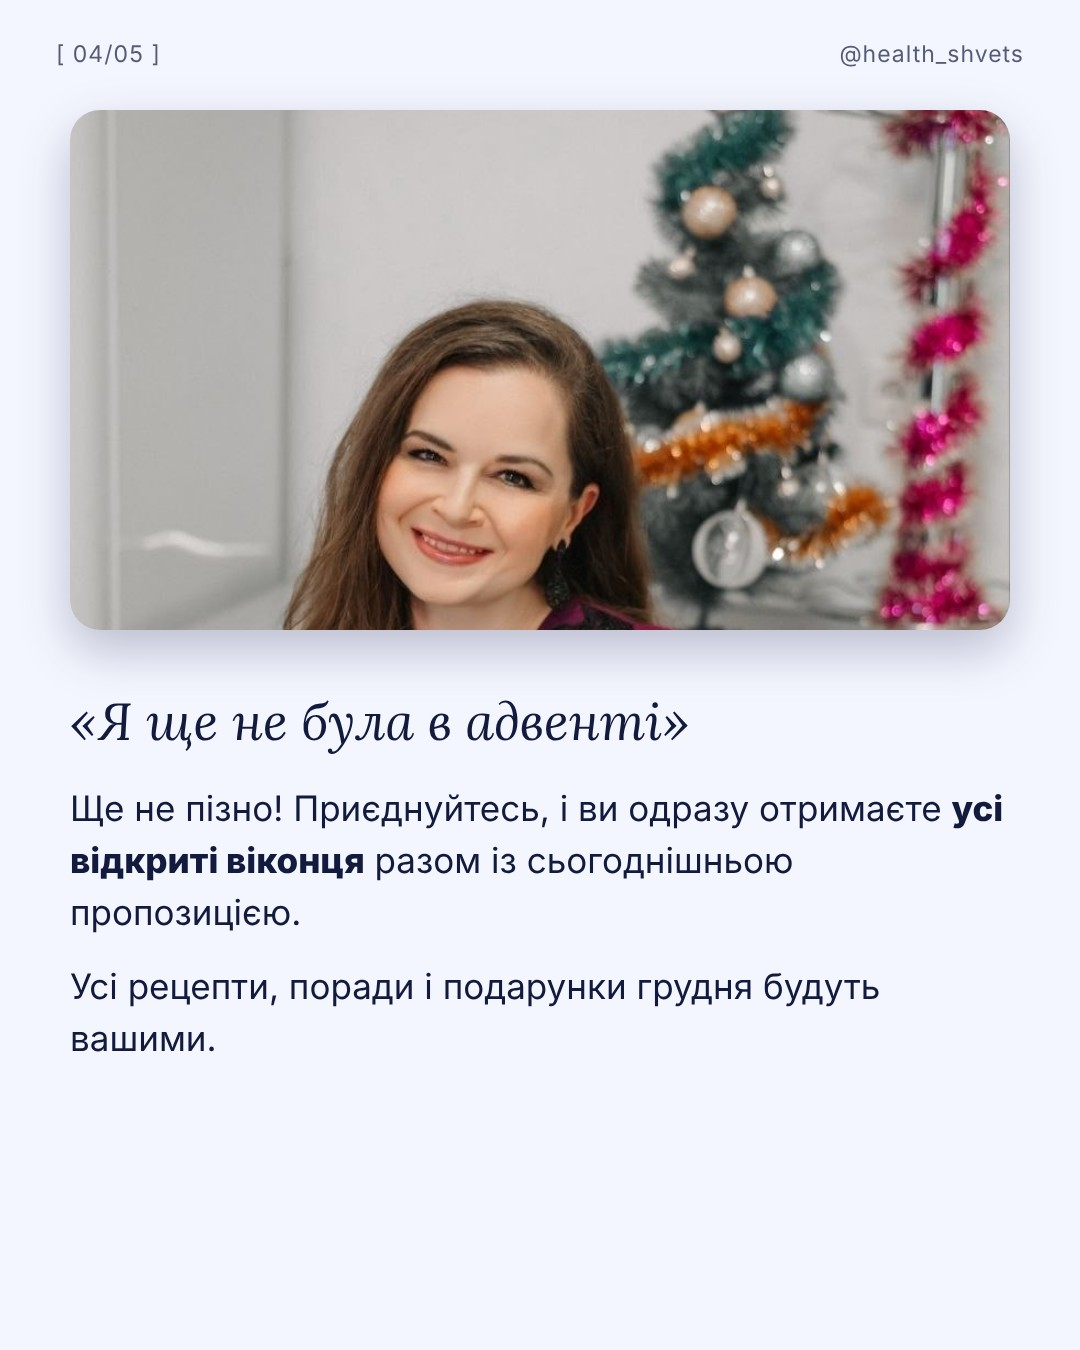
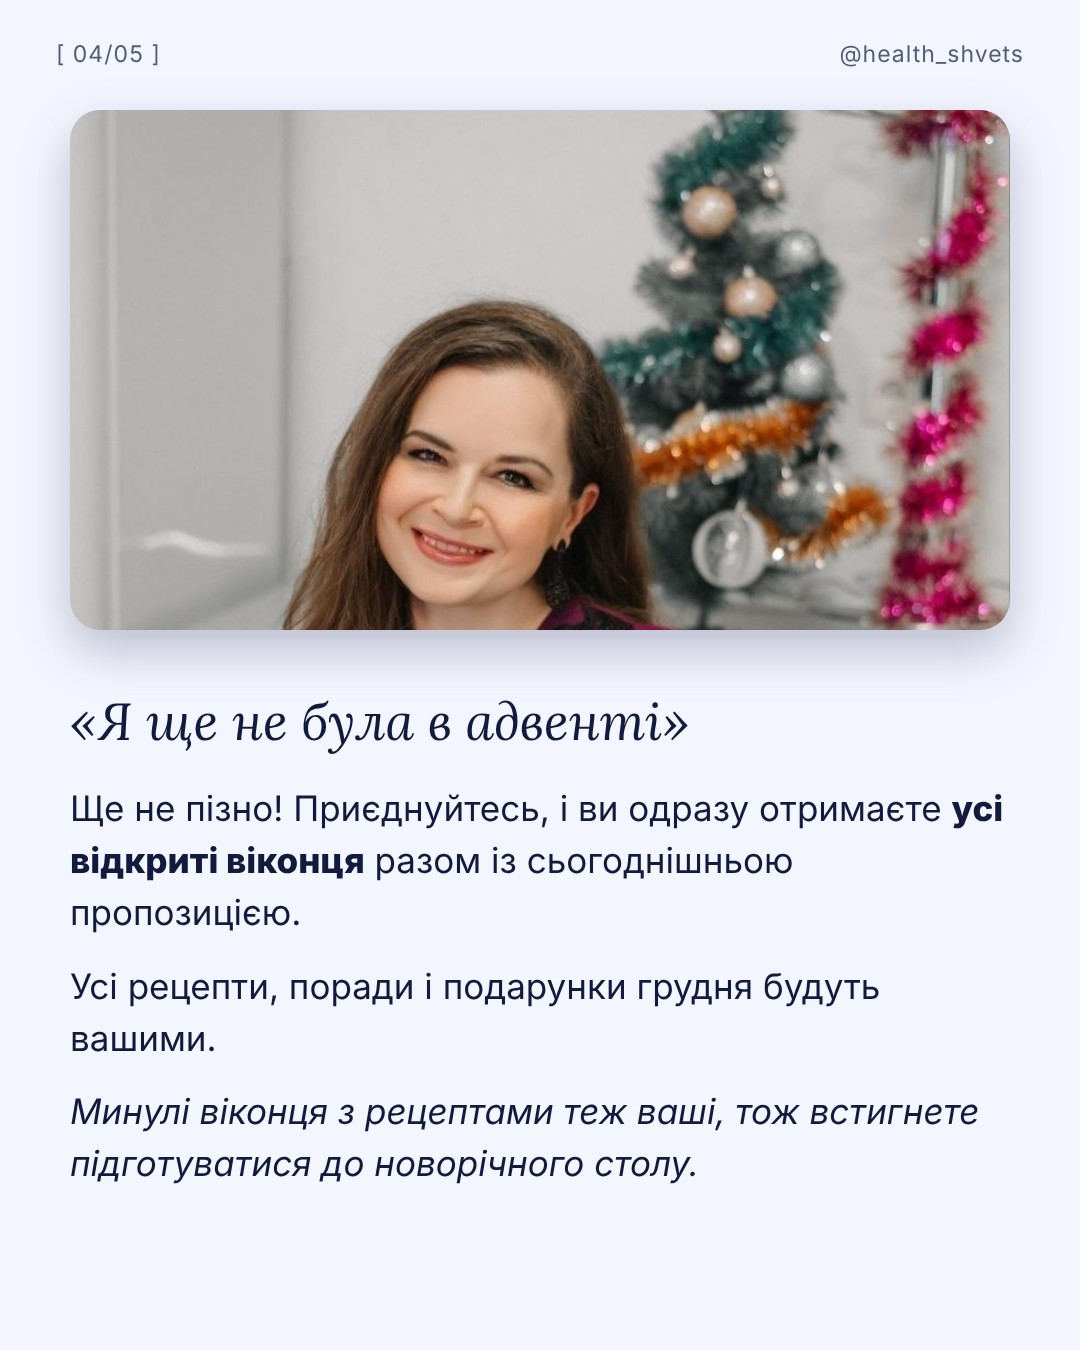
Каруселі 25-31.12 повноцінні, без порожніх обіцянок
Claude-Session: https://claude.ai/code/session_01VzrYNc44ZAszRsGLiFGcPN

Changed region(s): [[0.0611, 0.8089, 0.9167, 0.8711]]

diff --git a/tools/posts2/extra_data.py b/tools/posts2/extra_data.py
@@ -153,3 +153,30 @@ X["i12"] = {
 S["i12"] = {n: RULE2 for n in (2, 3, 4)}
 X["i13"] = {4: P("<i>Для мене це найцінніше: знати, що свята стали легшими хоча б в одному домі.</i>")}
 X["i14"] = {4: P("<i>Начинку можна змінювати:</i> замість сиру з кропом покласти шматочок оливки чи зелені. Головне, щоб сюрприз був.")}
+
+# ===== 25-31.12 =====
+X["j1"] = {4: P("<i>Подарунок діє лише кілька днів, тому не відкладайте його на «колись».</i>")}
+R["j2"] = {2: [("Дочитайте до кінця.", "Знайомо?")]}
+X["j2"] = {3: P("<i>Важкість після свят сама не минає</i>, її треба «винести», як ту ялинку: спокійно, крок за кроком, з планом.")}
+X["j3"] = {
+    3: P("<i>І викидали жовтки, хоча саме в них більшість корисного.</i>"),
+    6: P("<b>Що робити:</b> не викреслювати продукт навмання, а здати ліпідограму і подивитися на свій раціон загалом."),
+}
+X["j4"] = {4: P("<i>Візьміть із собою когось із рідних:</i> і травленню користь, і свято триває.")}
+S["j4"] = {4: RULE2}
+X["j5"] = {4: P("<i>Дитина пам'ятає не бургер, а те, що їй було весело.</i> Тож радість можна дати і без фастфуду.")}
+R["j6"] = {2: [("Дочитайте, тут не про канцелярію.", "Знайомо?")]}
+X["j6"] = {3: P("<b>План це:</b> з чого почати, що змінити першим і як зрозуміти, що рухаєтесь у правильний бік. <i>Тоді щоденник не закинеться до 10 січня.</i>")}
+X["j7"] = {4: P("<i>Минулі віконця з рецептами теж ваші, тож встигнете підготуватися до новорічного столу.</i>")}
+X["j8"] = {4: P("<i>А ще з'їжте щось тепле і просте: яйця, кашу чи суп.</i> Шлунок подякує.")}
+S["j8"] = {4: RULE2}
+X["j11"] = {3: P("<i>Воду пити можна і навіть потрібно</i>, вона не впливає на результат.")}
+S["j11"] = {3: RULE2}
+R["j12"] = {2: [("Дочитайте до кінця.", "Знайомо?")]}
+X["j12"] = {3: P("<i>Тому цього разу загадайте бажання і одразу запишіть перший крок, який зробите вже в січні.</i>")}
+X["j14"] = {3: P("<i>Я дуже вдячна за кожне ваше повідомлення, питання і результат цього року.</i>")}
+del X["j11"][3], S["j11"]
+X["j2"][2] = P("<i>Ми так звикаємо до того, що заважає, що перестаємо його помічати.</i>")
+X["j6"][2] = P("<i>А в березні новий щоденник лежить під книжками, і ми обіцяємо собі почати знову.</i>")
+X["j12"][2] = P("<i>І щороку серед бажань є одне й те саме.</i>")
+del X["j6"][2]

diff --git a/CLAUDE.md b/CLAUDE.md
@@ -136,3 +136,6 @@
 
 ## Кодові слова 28.11 (Тетяна)
 - Слова СІЧЕНЬ у ManyChat НЕМАЄ: січневий інтенсив = ЖИВІТ (?start=test, діагностика → пропозиція) і БУНТ (?start=bunt, відео → інтенсив). У каруселях h9, i10, j4 СІЧЕНЬ → ЖИВІТ; h14, j2, j12 → БУНТ (plan8/9/10 перезібрано, описи в instaposts.py).
+
+## Повноцінні каруселі (28.11, Тетяна «каруселі мають бути повноцінні»)
+- Доповнення без переписування збирачів: tools/posts2/extra.py + extra_data.py (X: абзац після останнього div.p, R: заміни, S: CSS), підключено в plan4-plan10 (SETS = extra.patch(SETS)). Усі «Дочитайте…» прибрано (замінено на «Знайомо?»), тонкі слайди доповнено. e2 Миколай 6 слайдів з рецептами (fix_e2_job разово 28.11). Перевірка: python3 content2026-bot/design_refs/check_carousels.py tools/posts2/planN.py. Не вставляти абзаци в слайди-списки й картки (залазить на фото).
